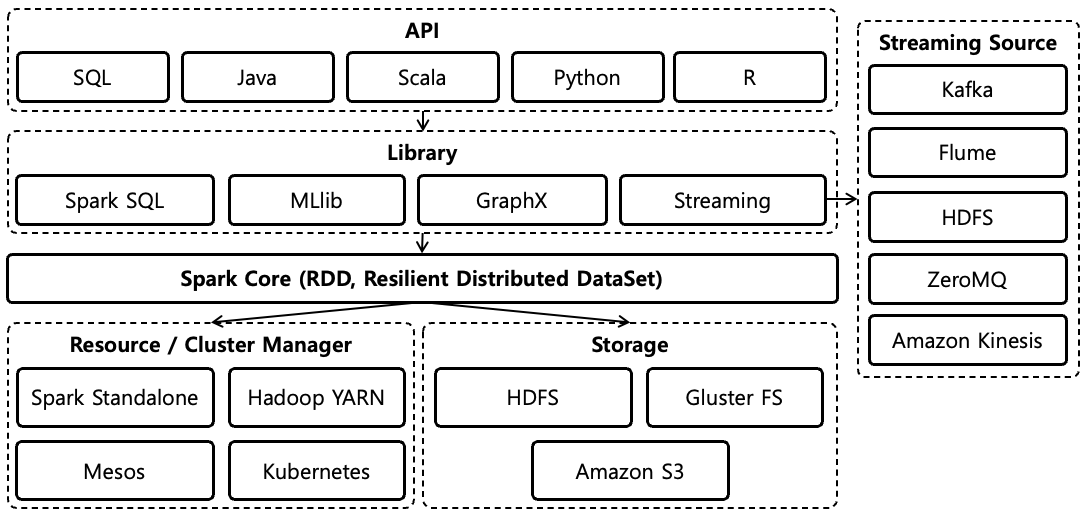
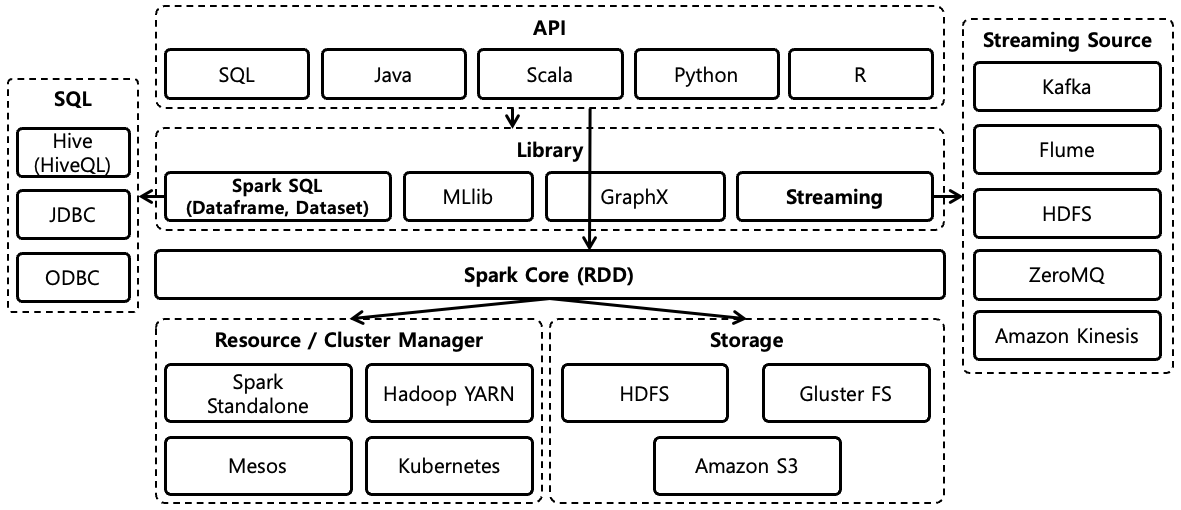
Update

Changed region(s): [[0.0, 0.0, 1.0, 1.0]]

diff --git a/_docs/theory_analysis/Spark_Architecture.md b/_docs/theory_analysis/Spark_Architecture.md
@@ -17,9 +17,16 @@ Spark Architecture를 분석한다.
 
 #### 1.1. Spark Core
 
-Spark Core는 데이터를 분산처리 하는 역할을 수행한다. 
+Spark Core는 Data를 Task 단위로 분산하여 처리하는 역할을 수행한다. Task는 Spark의 RDD (Resillient Distributed Data)로 구성된다. Task 수행을 위한 Resource(CPU, Memory)는 Spark Standalone을 이용하여 구축이 가능하며 Hadoop YARN, Mesos, Kubernetes와 같이 별도의 Resource Manager 이용도 가능하다. Storage는 Data가 저장되는 공간을 의미하며 HDFS, Gluster FS, Amazon S3등을 지원한다. Spark Core는 Java, Scala, Python, R 언어로 API를 제공한다.
 
 #### 1.2. Library
+
+Library는 Spark Core를 기반으로 다양한 Type의 Workload 처리를 도와주는 역할을 수행한다. Library는 다양한 개발 언어를 통해서 이용할 수 있다. Library는 Spark SQL, MLib, GraphX, Streaming으로 구분지을 수 있다.
+
+* Spark SQL : SQL Query를 통해서 정형화되어 있는 Data를 Spark의 DataFrame으로 가져오고 
+* MLib : 
+* GraphX : 
+* Streaming : 
 
 ### 2. Spark Runtime Architecture
 
